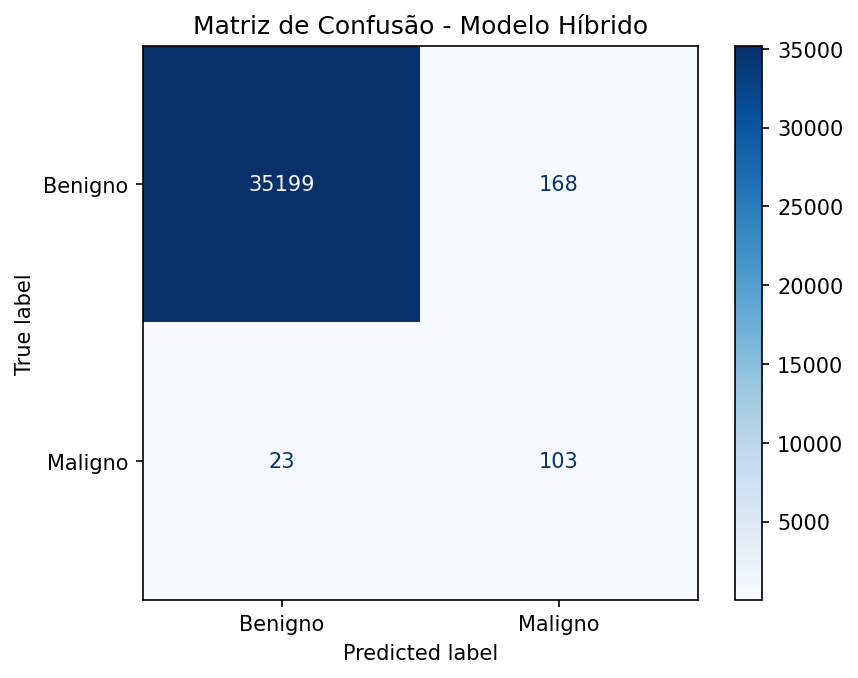
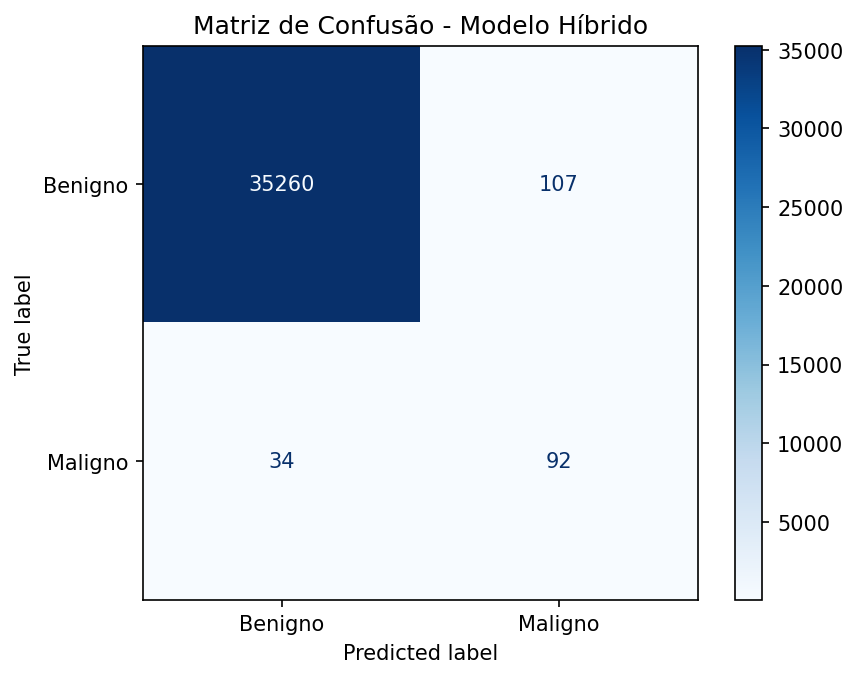
aplica análise de explicabilidade usando SHAP para o modelo neural híbrido

diff --git a/BCCC-CIC-Bell-DNS-Mal/nn/nn2-hybrid/nn2-hybrid.py b/BCCC-CIC-Bell-DNS-Mal/nn/nn2-hybrid/nn2-hybrid.py
@@ -17,8 +17,6 @@ from sklearn.feature_selection import VarianceThreshold
 from sklearn.metrics import roc_auc_score, roc_curve
 import pickle
 import shap
-import signal
-import sys
 
 def feature_indices(features, category_features):
     """
@@ -537,79 +535,90 @@ plt.savefig('confusion_matrix_hybrid.png', dpi=150, bbox_inches='tight')
 plt.close()
 print("Matriz de confusão salva: confusion_matrix_hybrid.png")
 
-# análise SHAP
-print("\nAnálise SHAP (com amostragem reduzida para evitar timeout)")
+# análise SHAP do modelo completo (híbrido)
+print("\nAnálise SHAP (modelo híbrido completo)")
 
-BACKGROUND_SAMPLES = 50
-TEST_SAMPLES = 10
-TIMEOUT_SHAP = 300
-
-def timeout_handler(signum, frame):
-    print("\n[TIMEOUT] Análise SHAP excedeu o tempo limite. Abortando...")
-    sys.exit(1)
+BACKGROUND_SAMPLES = 100
+TEST_SAMPLES = 50
 
 try:
+    # seleciona amostras para background e teste
+    x_train_lex_sample = x_train_lexical[:BACKGROUND_SAMPLES]
     x_train_comp_sample = x_train_comportamental[:BACKGROUND_SAMPLES]
+    x_train_prot_sample = x_train_protocolo[:BACKGROUND_SAMPLES]
+    
+    x_valid_lex_sample = x_valid_lexical[:TEST_SAMPLES]
     x_valid_comp_sample = x_valid_comportamental[:TEST_SAMPLES]
+    x_valid_prot_sample = x_valid_protocolo[:TEST_SAMPLES]
     
-    print(f"Background: {len(x_train_comp_sample)} amostras")
-    print(f"Teste: {len(x_valid_comp_sample)} amostras")
-    print(f"Timeout SHAP: {TIMEOUT_SHAP}s")
+    print(f"Background: {BACKGROUND_SAMPLES} amostras")
+    print(f"Teste: {TEST_SAMPLES} amostras")
     
-    # define timeout
-    signal.signal(signal.SIGALRM, timeout_handler)
-    signal.alarm(TIMEOUT_SHAP)
+    print("\nGerando explicabilidade para o modelo híbrido...")
     
-    print("\nGerando explicabilidade para Ramo Comportamental...")
-    
-    model_behavior_only = keras.Model(
-        inputs=model.input[1],
-        outputs=model.layers[-6].output
+    explainer = shap.GradientExplainer(
+        model,
+        [x_train_lex_sample, x_train_comp_sample, x_train_prot_sample]
     )
     
-    explainer_behavior = shap.DeepExplainer(model_behavior_only, x_train_comp_sample)
-    shap_values_behavior = explainer_behavior.shap_values(x_valid_comp_sample)
+    print("Calculando valores SHAP...")
+    shap_values = explainer.shap_values(
+        [x_valid_lex_sample, x_valid_comp_sample, x_valid_prot_sample]
+    )
     
-    signal.alarm(0)  # cancela o timeout
-    
-    if isinstance(shap_values_behavior, list):
-        shap_array_behavior = shap_values_behavior[0]
+    if isinstance(shap_values, list):
+        if len(shap_values) == 1 or (len(shap_values) == 2 and isinstance(shap_values[0], list)):
+            shap_values = shap_values[0]
+            
+        shap_array = np.concatenate(shap_values, axis=1)
     else:
-        shap_array_behavior = shap_values_behavior
+        shap_array = shap_values
     
-    if len(shap_array_behavior.shape) == 3 and shap_array_behavior.shape[2] == 1:
-        shap_array_behavior = shap_array_behavior[:, :, 0]
+    print(f"Shape dos SHAP values concatenados: {shap_array.shape}")
     
-    comportamental_feature_names = [selected_feature_names[i] for i in comportamental_indices]
+    if len(shap_array.shape) == 3:
+        if shap_array.shape[2] == 1:
+            shap_array = shap_array[:, :, 0]
+        elif shap_array.shape[0] == 1: 
+            shap_array = shap_array[0, :, :]
+            
+    print(f"Shape final dos SHAP values para o gráfico: {shap_array.shape}")
     
-    # summary plot
-    print("Salvando SHAP summary plot...")
-    plt.figure(figsize=(12, 10))
-    shap.summary_plot(shap_array_behavior, x_valid_comp_sample,
-                      feature_names=comportamental_feature_names,
-                      max_display=15, show=False)
-    plt.tight_layout()
-    plt.savefig('shap_summary_behavior_branch.png', dpi=150, bbox_inches='tight')
-    plt.close()
-    print("SHAP summary plot salvo: shap_summary_behavior_branch.png")
-
+    all_feature_names = (
+        [selected_feature_names[i] + " (Lex)" for i in lexical_indices] +
+        [selected_feature_names[i] + " (Comp)" for i in comportamental_indices] +
+        [selected_feature_names[i] + " (Prot)" for i in protocolo_indices]
+    )
+    
+    print(f"Total de features analisadas: {len(all_feature_names)}")
+    
+    x_valid_concatenated = np.concatenate([
+        x_valid_lex_sample,
+        x_valid_comp_sample,
+        x_valid_prot_sample
+    ], axis=1)
+    
     print("Salvando SHAP bar plot...")
-    plt.figure(figsize=(12, 10))
-    shap.summary_plot(shap_array_behavior, x_valid_comp_sample,
-                      feature_names=comportamental_feature_names,
-                      max_display=15, plot_type="bar", show=False)
+    plt.figure(figsize=(14, 10))
+    shap.summary_plot(
+        shap_array,
+        x_valid_concatenated,
+        feature_names=all_feature_names,
+        max_display=20,
+        plot_type="bar",
+        show=False
+    )
     plt.tight_layout()
-    plt.savefig('shap_bar_behavior_branch.png', dpi=150, bbox_inches='tight')
+    plt.savefig('shap_bar_plot_hybrid.png', dpi=150, bbox_inches='tight')
     plt.close()
-    print("SHAP bar plot salvo: shap_bar_behavior_branch.png")
+    print("SHAP bar plot salvo: shap_bar_plot_hybrid.png")
     print("\nAnálise SHAP concluída com sucesso")
 
 except Exception as e:
-    signal.alarm(0)  # cancela o timeout em caso de erro
     print(f"\nErro na análise SHAP: {e}")
-    print("  Continuando com o resto do pipeline...")
-
-
+    import traceback
+    traceback.print_exc() 
+    print("Continuando com o resto do pipeline...")
 
 # salva modelo
 print('\nSalvando o modelo')
